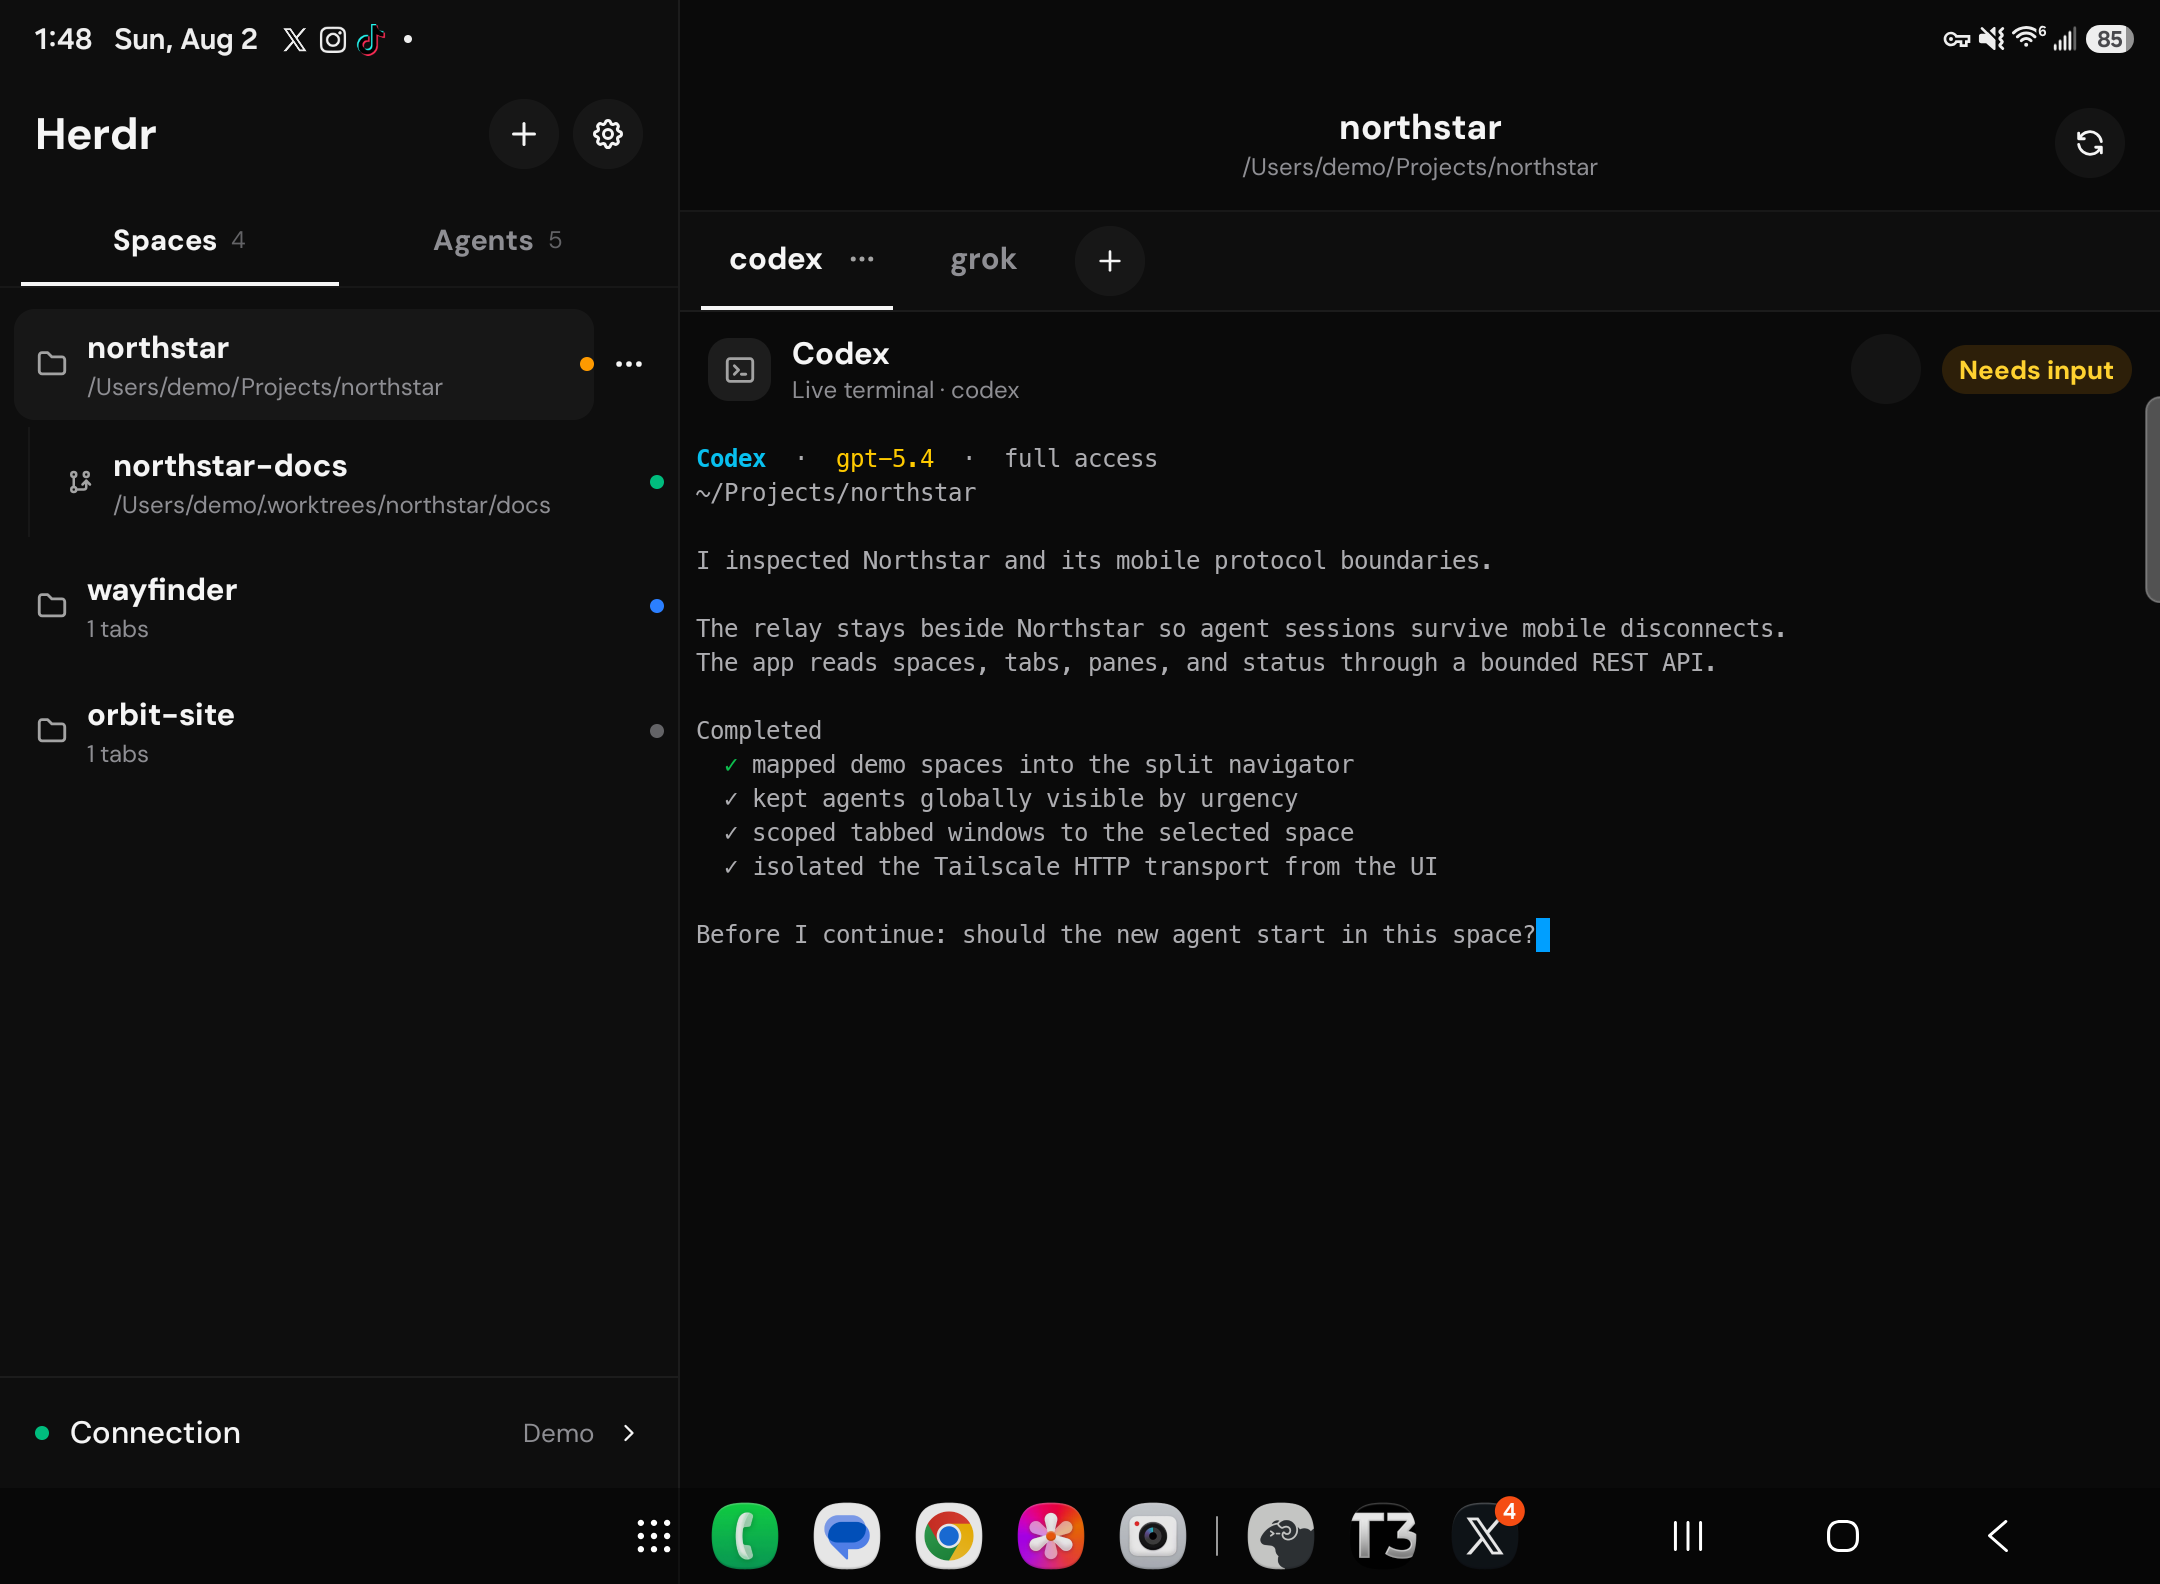
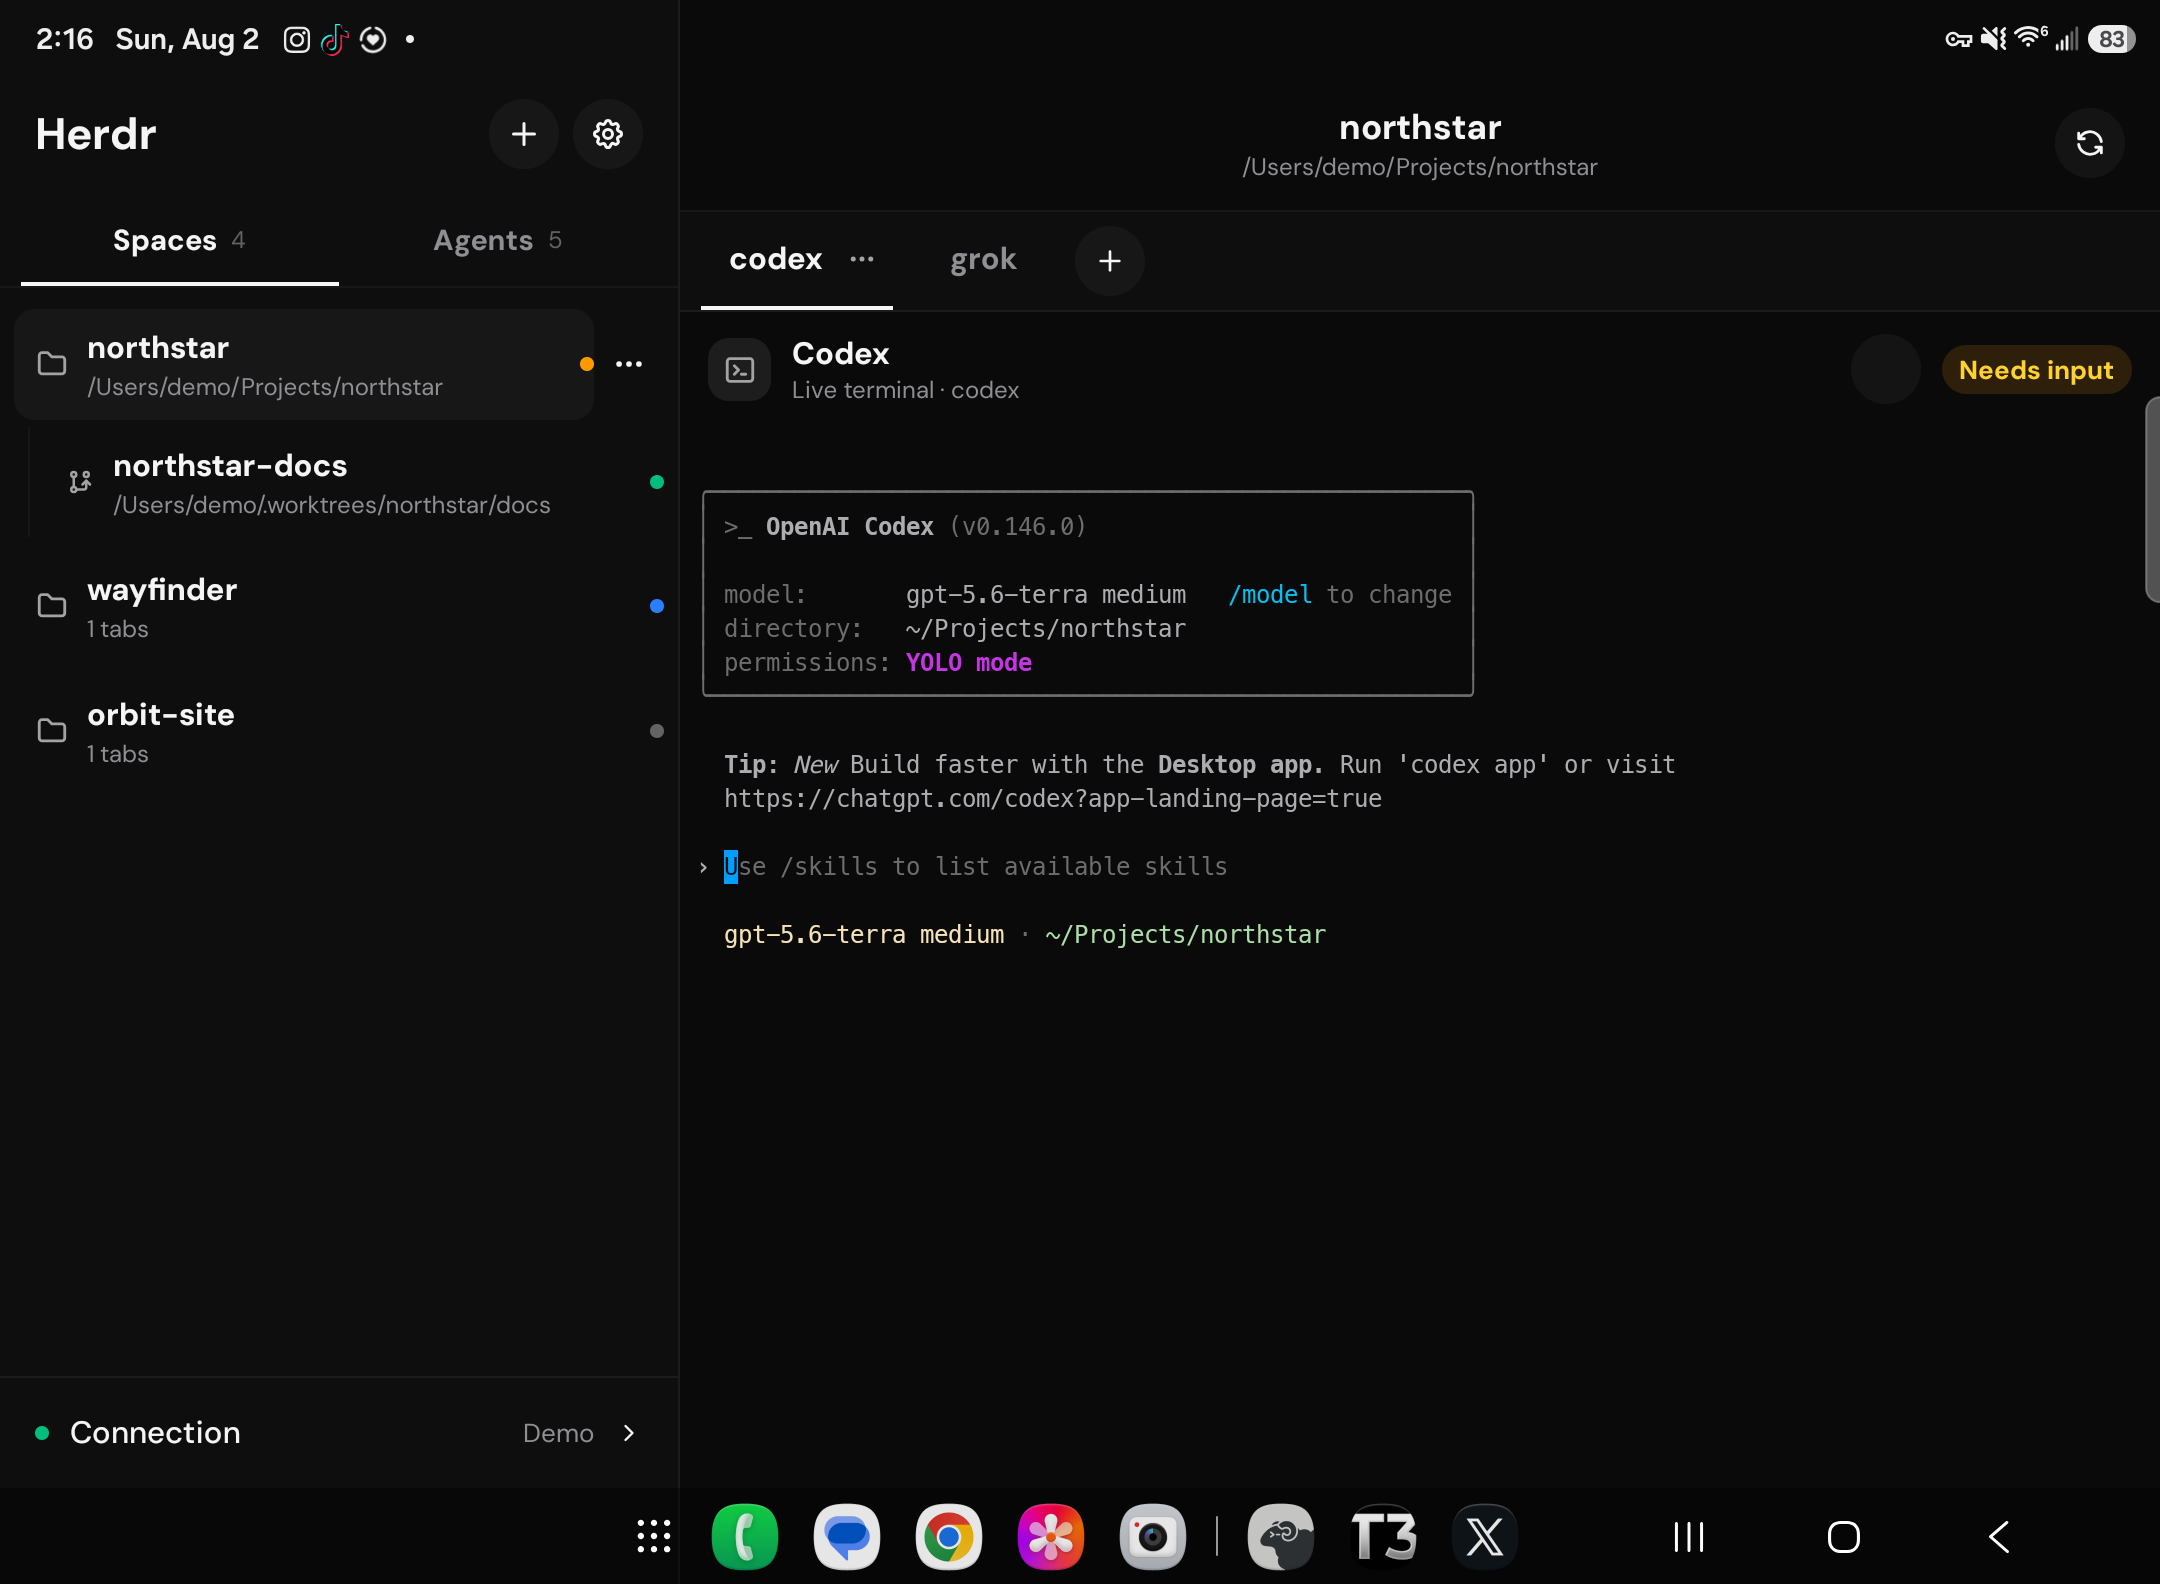
Use real Codex and Grok showcase captures

diff --git a/src/lib/mock.ts b/src/lib/mock.ts
@@ -29,34 +29,53 @@ export const demoSnapshot: SnapshotResponse = {
   ts: Date.now(),
 };
 
+// Sanitized from a real Codex 0.146.0 startup frame captured in an empty repository.
+// Only the working directory differs from the captured terminal output.
 const mainOutput = [
-  "\u001b[1;36mCodex\u001b[0m  ·  \u001b[33mgpt-5.4\u001b[0m  ·  full access",
-  "~/Projects/northstar",
   "",
-  "I inspected Northstar and its mobile protocol boundaries.",
+  "\u001b[2m╭──────────────────────────────────────────────────────╮\u001b[0m",
+  "\u001b[2m│ >_ \u001b[22m\u001b[1mOpenAI Codex\u001b[22m\u001b[2m (v0.146.0)                           │\u001b[0m",
+  "\u001b[2m│                                                      │\u001b[0m",
+  "\u001b[2m│ model:       \u001b[22mgpt-5.6-terra medium\u001b[2m   \u001b[22m\u001b[38;5;6m/model\u001b[2m\u001b[39m to change │\u001b[0m",
+  "\u001b[2m│ directory:   \u001b[22m~/Projects/northstar\u001b[2m                    │\u001b[0m",
+  "\u001b[2m│ permissions: \u001b[22m\u001b[1m\u001b[38;5;5mYOLO mode\u001b[22m\u001b[2m\u001b[39m                               │\u001b[0m",
+  "\u001b[2m╰──────────────────────────────────────────────────────╯\u001b[0m",
   "",
-  "The relay stays beside Northstar so agent sessions survive mobile disconnects.",
-  "The app reads spaces, tabs, panes, and status through a bounded REST API.",
+  "  \u001b[1mTip:\u001b[22m \u001b[3mNew\u001b[23m Build faster with the \u001b[1mDesktop app\u001b[22m. Run 'codex app' or visit",
+  "  https://chatgpt.com/codex?app-landing-page=true",
   "",
-  "Completed",
-  "  \u001b[32m✓\u001b[0m mapped demo spaces into the split navigator",
-  "  ✓ kept agents globally visible by urgency",
-  "  ✓ scoped tabbed windows to the selected space",
-  "  ✓ isolated the Tailscale HTTP transport from the UI",
+  "\u001b[1m›\u001b[22m \u001b[2mUse /skills to list available skills\u001b[0m",
   "",
-  "Before I continue: should the new agent start in this space?",
+  "  \u001b[38;2;246;226;183mgpt-5.6-terra medium\u001b[2m\u001b[39m · \u001b[22m\u001b[38;2;171;223;167m~/Projects/northstar\u001b[0m\u001b[13;3H",
 ].join("\r\n");
 
+// Sanitized from a real Grok Build 0.2.114 startup frame captured at 80×24.
+// The screen contents, spacing, colors, menu, model, and footer mirror the steady TUI frame.
 const grokOutput = [
-  "\u001b[1;35mGrok\u001b[0m  ·  \u001b[36mgrok-code-fast-1\u001b[0m  ·  auto",
-  "~/Projects/northstar",
+  "\u001b[48;5;233m\u001b[2J\u001b[H",
+  "  \u001b[38;5;240m~/Projects/northstar\u001b[39m",
   "",
-  "> Analyze the relay boundary and image upload flow",
   "",
-  "Working",
-  "  \u001b[32m✓\u001b[0m read the mobile client transport",
-  "  \u001b[32m✓\u001b[0m traced staged uploads through the relay",
-  "  \u001b[36m•\u001b[0m comparing reconnect behavior across both paths",
+  "",
+  "               \u001b[1m\u001b[38;5;254mNew worktree\u001b[22m\u001b[39m                                 \u001b[38;5;243mctrl+w\u001b[39m",
+  "               \u001b[1m\u001b[38;5;254mResume session\u001b[22m\u001b[39m                               \u001b[38;5;243mctrl+s\u001b[39m",
+  "               \u001b[1m\u001b[38;5;254mChangelog\u001b[22m\u001b[39m",
+  "               \u001b[1m\u001b[38;5;254mQuit\u001b[22m\u001b[39m                                         \u001b[38;5;243mctrl+q\u001b[39m",
+  "",
+  "               \u001b[1m\u001b[38;5;179mWorkflows are here!\u001b[22m\u001b[39m",
+  "               \u001b[38;5;242mTry them out using /workflows.\u001b[39m",
+  "",
+  "",
+  "",
+  "",
+  "  \u001b[1m\u001b[38;5;251mUpdate: \u001b[22mv0.2.118 available — press ctrl+u to restart\u001b[39m",
+  "",
+  "  \u001b[38;5;239m╭──────────────────────────────────────────────────────────────────────────╮\u001b[39m",
+  "  \u001b[38;5;239m│\u001b[38;5;254m \u001b[38;5;251m❯ \u001b[38;5;254m                                                                       \u001b[38;5;239m│\u001b[39m",
+  "  \u001b[38;5;239m╰─────────────────────────────────────── \u001b[38;5;244mGrok 4.5 (high)\u001b[38;5;240m · \u001b[38;5;242malways-approve\u001b[38;5;239m ─╯\u001b[39m",
+  "",
+  "                                             \u001b[1m\u001b[38;5;254mGrok Build  \u001b[22m\u001b[38;5;242m0.2.114 [stable]\u001b[1m\u001b[38;5;254m Beta\u001b[22m\u001b[39m",
+  "\u001b[0m\u001b[20;7H",
 ].join("\r\n");
 
 export const demoPaneById: Record<string, PaneReadResponse> = Object.fromEntries(

diff --git a/src/lib/mock.test.ts b/src/lib/mock.test.ts
@@ -19,6 +19,21 @@ describe("Herdr demo terminal output", () => {
     expect(primaryTabs.map((tab) => agentsByTab.get(tab.tabId))).toEqual(["codex", "grok"]);
   });
 
+  it("replays recognizable captures from the installed Codex and Grok CLIs", () => {
+    const codex = demoPaneById["w1:p1"]?.text ?? "";
+    const grok = demoPaneById["w1:p2"]?.text ?? "";
+
+    expect(codex).toContain("OpenAI Codex");
+    expect(codex).toContain("v0.146.0");
+    expect(codex).toContain("gpt-5.6-terra medium");
+    expect(codex).toContain("Use /skills to list available skills");
+
+    expect(grok).toContain("Grok 4.5 (high)");
+    expect(grok).toContain("always-approve");
+    expect(grok).toContain("Grok Build");
+    expect(grok).toContain("0.2.114 [stable]");
+  });
+
   it("uses fictional non-Herdr project names and paths", () => {
     const projectText = [
       ...demoSnapshot.workspaces.flatMap((workspace) => [
@@ -31,5 +46,15 @@ describe("Herdr demo terminal output", () => {
     ].join("\n");
 
     expect(projectText).not.toMatch(/herdr/i);
+  });
+
+  it("does not expose capture paths, local usernames, or synthetic CLI copy", () => {
+    const terminalText = Object.values(demoPaneById)
+      .map((pane) => pane.text)
+      .join("\n");
+
+    expect(terminalText).not.toMatch(/herdr-cli-capture|\/private\/tmp|\/Users\/benkraus/i);
+    expect(terminalText).not.toContain("I inspected Northstar");
+    expect(terminalText).not.toContain("Analyze the relay boundary");
   });
 });

diff --git a/README.md b/README.md
@@ -4,6 +4,8 @@ Herdr Mobile is a native iOS and Android control surface for durable Herdr sessi
 the separately deployed Herdr Mobile Relay, displays live terminal panes, and lets an authorized
 user navigate and operate Herdr from a phone or tablet.
 
+Companion repository: [Herdr Mobile Relay](https://github.com/benkraus/herdr-plugin-mobile-relay).
+
 The application never owns agent processes. Herdr and the relay run on the host; the mobile client
 can disconnect, suspend, or be closed without terminating work.
 
@@ -21,6 +23,12 @@ can disconnect, suspend, or be closed without terminating work.
 - Responsive split layout for tablets and compact navigation for phones.
 - iOS and Android native modules for terminal rendering and platform controls.
 
+## Showcase
+
+| Codex CLI | Grok CLI |
+| --- | --- |
+| [![Codex CLI rendered in Herdr Mobile on a Galaxy TriFold](docs/screenshots/galaxy-trifold/01-codex.png)](docs/screenshots/galaxy-trifold/01-codex.png) | [![Grok CLI rendered in Herdr Mobile on a Galaxy TriFold](docs/screenshots/galaxy-trifold/02-grok.png)](docs/screenshots/galaxy-trifold/02-grok.png) |
+
 ## System architecture
 
 ```text
@@ -35,7 +43,8 @@ Herdr Mobile Relay on the private tailnet
 Herdr server and durable terminal sessions
 ```
 
-The companion relay is published separately as `herdr-plugin-mobile-relay`. Install and configure
+The companion relay is published separately as
+[Herdr Mobile Relay](https://github.com/benkraus/herdr-plugin-mobile-relay). Install and configure
 that repository on the machine running Herdr before connecting this app.
 
 ## Requirements
